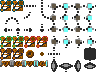
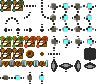
wire/track bridge

diff --git a/Games/Dobbsworks/js/levelStructure/tileType.js b/Games/Dobbsworks/js/levelStructure/tileType.js
@@ -353,6 +353,8 @@ var TileType = /** @class */ (function () {
         TileType.MountainSpikesDown;
         TileType.MountainSpikesLeft;
         TileType.MountainSpikesRight;
+        TileType.TrackBridgeHorizontalOff;
+        TileType.TrackBridgeVerticalOff;
     };
     TileType.RegisterSlope = function (keyBase, tileRow) {
         var colIter = 8;
@@ -2200,6 +2202,52 @@ var TileType = /** @class */ (function () {
             tileType.trackDirections = [sharedDir, offDir.Opposite()];
         });
     };
+    Object.defineProperty(TileType, "TrackBridgeHorizontalOff", {
+        get: function () {
+            return TileType.GetTileType("TrackBridgeHorizontalOff", "motorTrack", 0, 6, Solidity.None, TargetLayer.wire, function (tileType) {
+                tileType.canBePowered = true;
+                tileType.poweredTileName = "TrackBridgeHorizontalOn";
+                tileType.trackDirections = [Direction.Left, Direction.Right];
+                tileType.clockWiseRotationTileName = "TrackBridgeVerticalOff";
+            });
+        },
+        enumerable: false,
+        configurable: true
+    });
+    Object.defineProperty(TileType, "TrackBridgeHorizontalOn", {
+        get: function () {
+            return TileType.GetTileType("TrackBridgeHorizontalOn", "motorTrack", 1, 6, Solidity.None, TargetLayer.wire, function (tileType) {
+                tileType.canBePowered = true;
+                tileType.unpoweredTileName = "TrackBridgeHorizontalOff";
+                tileType.trackDirections = [Direction.Left, Direction.Right];
+            });
+        },
+        enumerable: false,
+        configurable: true
+    });
+    Object.defineProperty(TileType, "TrackBridgeVerticalOff", {
+        get: function () {
+            return TileType.GetTileType("TrackBridgeVerticalOff", "motorTrack", 2, 6, Solidity.None, TargetLayer.wire, function (tileType) {
+                tileType.canBePowered = true;
+                tileType.poweredTileName = "TrackBridgeVerticalOn";
+                tileType.trackDirections = [Direction.Up, Direction.Down];
+                tileType.clockWiseRotationTileName = "TrackBridgeHorizontalOff";
+            });
+        },
+        enumerable: false,
+        configurable: true
+    });
+    Object.defineProperty(TileType, "TrackBridgeVerticalOn", {
+        get: function () {
+            return TileType.GetTileType("TrackBridgeVerticalOn", "motorTrack", 3, 6, Solidity.None, TargetLayer.wire, function (tileType) {
+                tileType.canBePowered = true;
+                tileType.unpoweredTileName = "TrackBridgeVerticalOff";
+                tileType.trackDirections = [Direction.Up, Direction.Down];
+            });
+        },
+        enumerable: false,
+        configurable: true
+    });
     TileType.OneWay = function (direction) {
         var y = [Direction.Right, Direction.Down, Direction.Left, Direction.Up].indexOf(direction);
         var frames = [

diff --git a/Games/Dobbsworks/js/levelStructure/tileType.ts b/Games/Dobbsworks/js/levelStructure/tileType.ts
@@ -396,6 +396,9 @@ class TileType {
         TileType.MountainSpikesDown;
         TileType.MountainSpikesLeft;
         TileType.MountainSpikesRight;
+
+        TileType.TrackBridgeHorizontalOff;
+        TileType.TrackBridgeVerticalOff;
     }
 
 
@@ -1358,6 +1361,40 @@ class TileType {
             tileType.canBePowered = true;
             tileType.unpoweredTileName = baseName + "Off"
             tileType.trackDirections = [sharedDir, offDir.Opposite()];
+        });
+    }
+
+    public static get TrackBridgeHorizontalOff(): TileType {
+        return TileType.GetTileType("TrackBridgeHorizontalOff", "motorTrack", 0, 6, Solidity.None, TargetLayer.wire, tileType => {
+            tileType.canBePowered = true;
+            tileType.poweredTileName = "TrackBridgeHorizontalOn";
+            tileType.trackDirections = [Direction.Left, Direction.Right];
+            tileType.clockWiseRotationTileName = "TrackBridgeVerticalOff";
+        });
+    }
+
+    public static get TrackBridgeHorizontalOn(): TileType {
+        return TileType.GetTileType("TrackBridgeHorizontalOn", "motorTrack", 1, 6, Solidity.None, TargetLayer.wire, tileType => {
+            tileType.canBePowered = true;
+            tileType.unpoweredTileName = "TrackBridgeHorizontalOff";
+            tileType.trackDirections = [Direction.Left, Direction.Right];
+        });
+    }
+
+    public static get TrackBridgeVerticalOff(): TileType {
+        return TileType.GetTileType("TrackBridgeVerticalOff", "motorTrack", 2, 6, Solidity.None, TargetLayer.wire, tileType => {
+            tileType.canBePowered = true;
+            tileType.poweredTileName = "TrackBridgeVerticalOn";
+            tileType.trackDirections = [Direction.Up, Direction.Down];
+            tileType.clockWiseRotationTileName = "TrackBridgeHorizontalOff";
+        });
+    }
+
+    public static get TrackBridgeVerticalOn(): TileType {
+        return TileType.GetTileType("TrackBridgeVerticalOn", "motorTrack", 3, 6, Solidity.None, TargetLayer.wire, tileType => {
+            tileType.canBePowered = true;
+            tileType.unpoweredTileName = "TrackBridgeVerticalOff";
+            tileType.trackDirections = [Direction.Up, Direction.Down];
         });
     }
 

diff --git a/Games/Dobbsworks/js/editor/_editor.js b/Games/Dobbsworks/js/editor/_editor.js
@@ -228,6 +228,7 @@ var EditorHandler = /** @class */ (function () {
             new EditorButtonTrackTool(),
             new EditorButtonTile(TileType.TrackLeftCapEntry, "Track Pipe").AppendImage(tiles["uiButtonAdd"][0][0]),
             new EditorButtonTile(TileType.TrackBranchDownLeftOff, "Track Branch").AppendImage(tiles["uiButtonAdd"][0][0]),
+            new EditorButtonTile(TileType.TrackBridgeHorizontalOff, "Track/Wire Bridge").AppendImage(tiles["uiButtonAdd"][0][0]),
             new EditorButtonSprite(Lever),
             new EditorButtonSprite(Lightbulb),
             new EditorButtonTile(TileType.UnpoweredWindRight, "Wind Generator").AppendImage(tiles["uiButtonAdd"][0][0]),

diff --git a/Games/Dobbsworks/js/editor/_editor.ts b/Games/Dobbsworks/js/editor/_editor.ts
@@ -256,6 +256,7 @@ class EditorHandler {
             new EditorButtonTrackTool(),
             new EditorButtonTile(TileType.TrackLeftCapEntry, "Track Pipe").AppendImage(tiles["uiButtonAdd"][0][0]),
             new EditorButtonTile(TileType.TrackBranchDownLeftOff, "Track Branch").AppendImage(tiles["uiButtonAdd"][0][0]),
+            new EditorButtonTile(TileType.TrackBridgeHorizontalOff, "Track/Wire Bridge").AppendImage(tiles["uiButtonAdd"][0][0]),
             new EditorButtonSprite(Lever),
             new EditorButtonSprite(Lightbulb),
             new EditorButtonTile(TileType.UnpoweredWindRight, "Wind Generator").AppendImage(tiles["uiButtonAdd"][0][0]),

diff --git a/Games/Dobbsworks/index.html b/Games/Dobbsworks/index.html
@@ -277,7 +277,7 @@
         <img src="images/cannon.png?v=1.8.0" data-cols="16" data-rows="8" />
         <img src="images/ring.png?v=1.8.0" data-cols="5" data-rows="4" />
         <img src="images/kite.png?v=1.8.0" data-cols="3" data-rows="1" />
-        <img src="images/motorTrack.png?v=1.8.0" data-cols="8" data-rows="6" />
+        <img src="images/motorTrack.png?v=1.8.0" data-cols="8" data-rows="7" />
         <img src="images/rocket.png?v=1.8.0" data-cols="1" data-rows="1" />
         <img src="images/coin.png?v=1.8.0" data-cols="6" data-rows="4" />
         <img src="images/dobbloon.png?v=1.8.0" data-cols="6" data-rows="4" />
